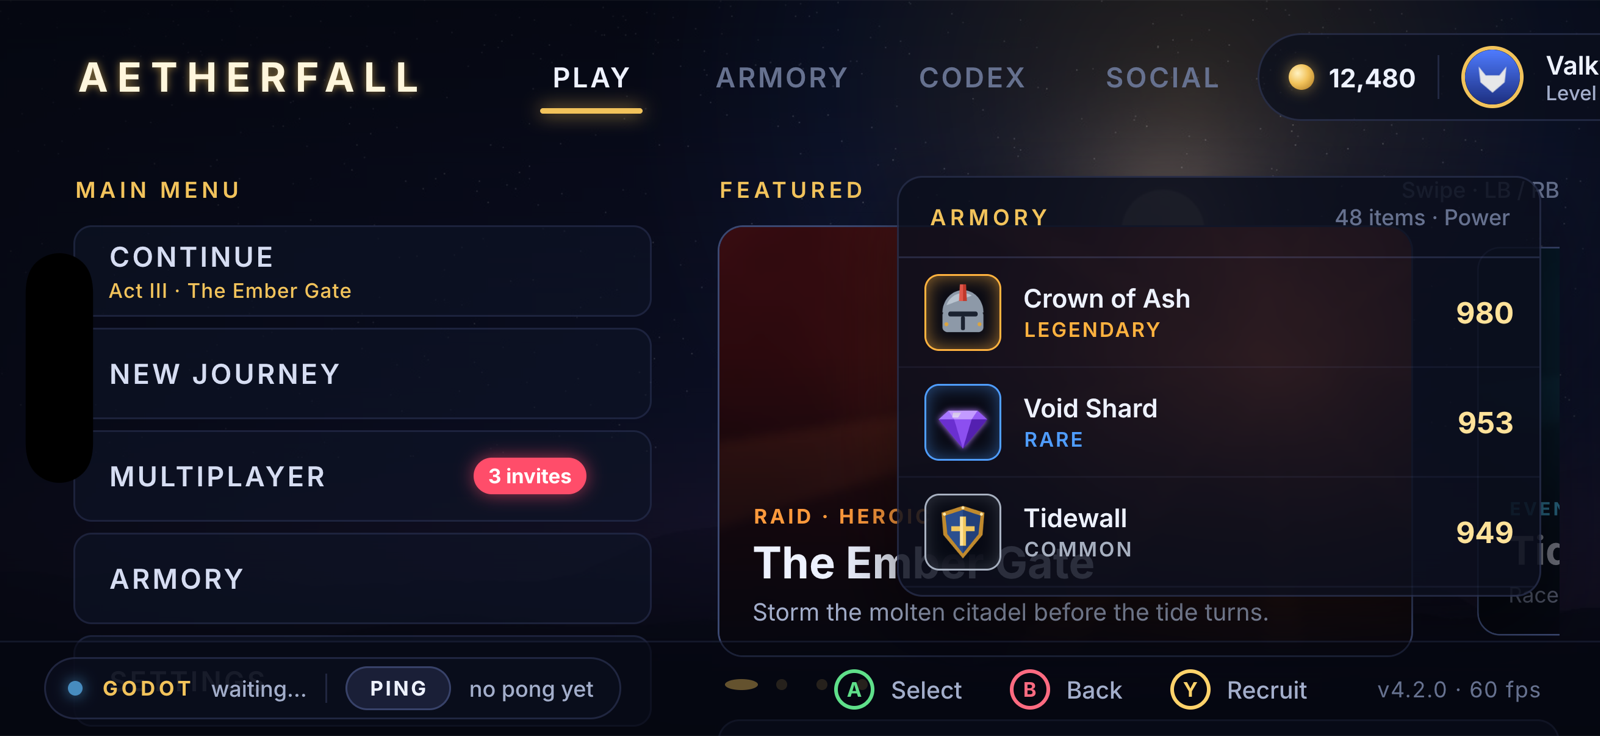
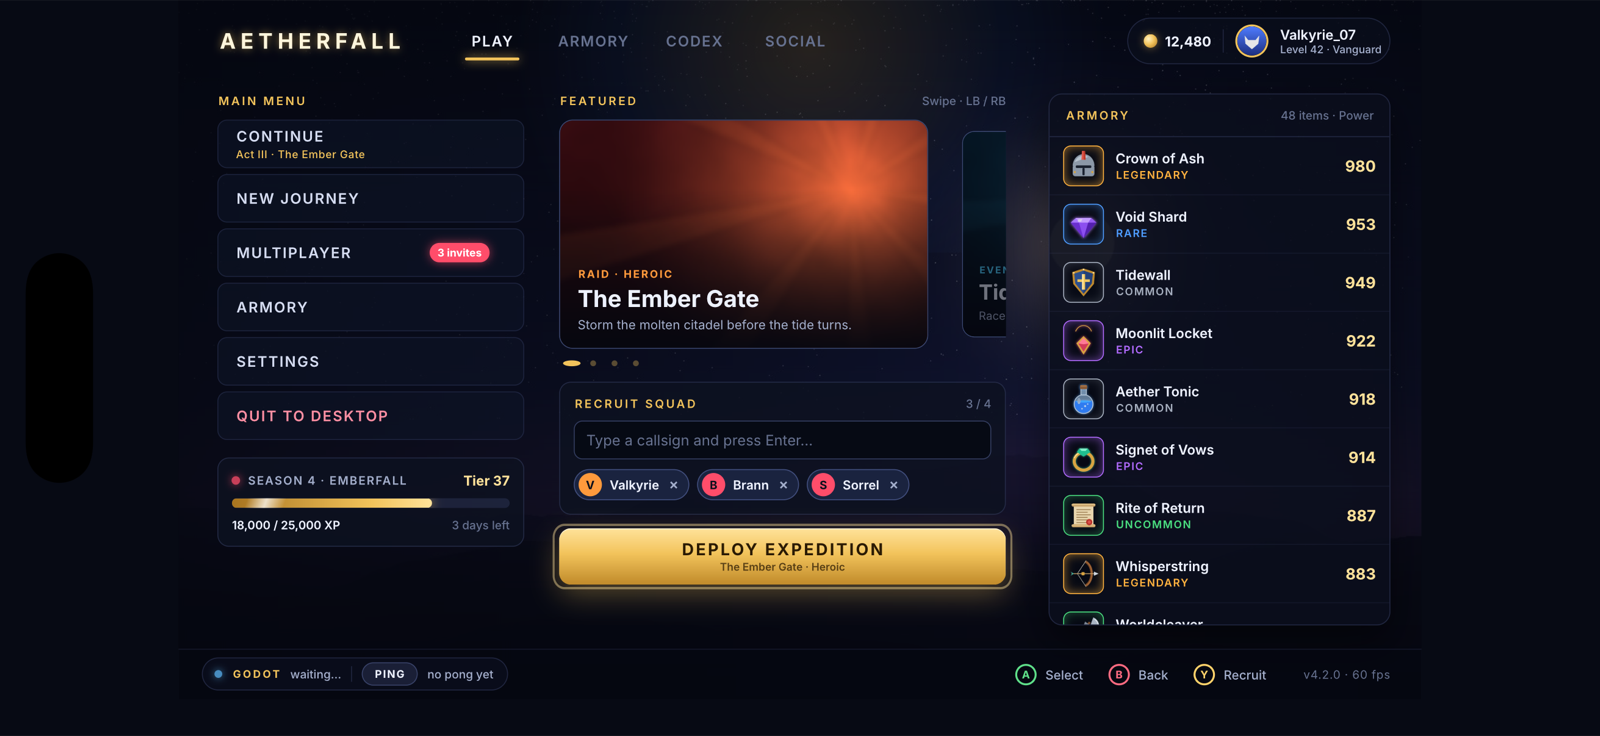
iOS: updated simulator screenshot (safe area)
The showcase is a fixed 1280 x 720 layout, wider and taller than a phone in
landscape (~874 x 402 pt), so most of it was off-screen regardless of the
safe area. The demo now scales that stage to fit the safe area and centres
it (scale 1 in Godot, whose viewport is the stage size).

The ninja build copied the UI bundle into JsuiDemo.app only as a POST_BUILD
step, which does not run when only the bundle changed: the app kept the old
bundle. Copy + ad-hoc signing now run on every build.

Claude-Session: https://claude.ai/code/session_01LEDLk4AtbzUcBqDvTmWALW

diff --git a/integrations/godot/demo/ui/app.jsx b/integrations/godot/demo/ui/app.jsx
@@ -24,13 +24,14 @@ import {
   Easing,
   Host,
   Pressable,
-  SafeAreaView,
   StyleSheet,
   Text,
   View,
   useHostHandler,
   useHostState,
+  useWindowDimensions,
 } from 'react-native';
+import { useSafeAreaInsets } from 'react-native-safe-area-context';
 import Showcase from '../../../../examples/showcase/interactions.jsx';
 import { colors, font } from '../../../../examples/theme.js';
 
@@ -103,23 +104,45 @@ function Bridge() {
   );
 }
 
+// The showcase is laid out for a 1280 x 720 stage (the Godot viewport). On a
+// smaller screen (a phone in landscape is ~874 x 402) the stage is scaled
+// down to fit the safe area and centred in it; in Godot the scale is 1.
+const STAGE_W = 1280;
+const STAGE_H = 720;
+
+function Stage({ children }) {
+  const { width, height } = useWindowDimensions();
+  const insets = useSafeAreaInsets();
+  const w = width - insets.left - insets.right;
+  const h = height - insets.top - insets.bottom;
+  const scale = Math.min(1, w / STAGE_W, h / STAGE_H);
+  const style = {
+    position: 'absolute',
+    left: insets.left + (w - STAGE_W) / 2,
+    top: insets.top + (h - STAGE_H) / 2,
+    width: STAGE_W,
+    height: STAGE_H,
+  };
+  if (scale < 1) style.transform = [{ scale }];
+  return <View style={style}>{children}</View>;
+}
+
 function App() {
   return (
     // Insets are zero in Godot; on phones (the iOS host) the background runs
     // edge to edge and the UI stays clear of the notch / home indicator.
     <View style={styles.root}>
-      <SafeAreaView style={styles.safe}>
+      <Stage>
         <Showcase />
         <Bridge />
         <Toast />
-      </SafeAreaView>
+      </Stage>
     </View>
   );
 }
 
 const styles = StyleSheet.create({
   root: { flex: 1, backgroundColor: colors.bg0 },
-  safe: { flex: 1 },
   bridge: {
     position: 'absolute',
     left: 24,
